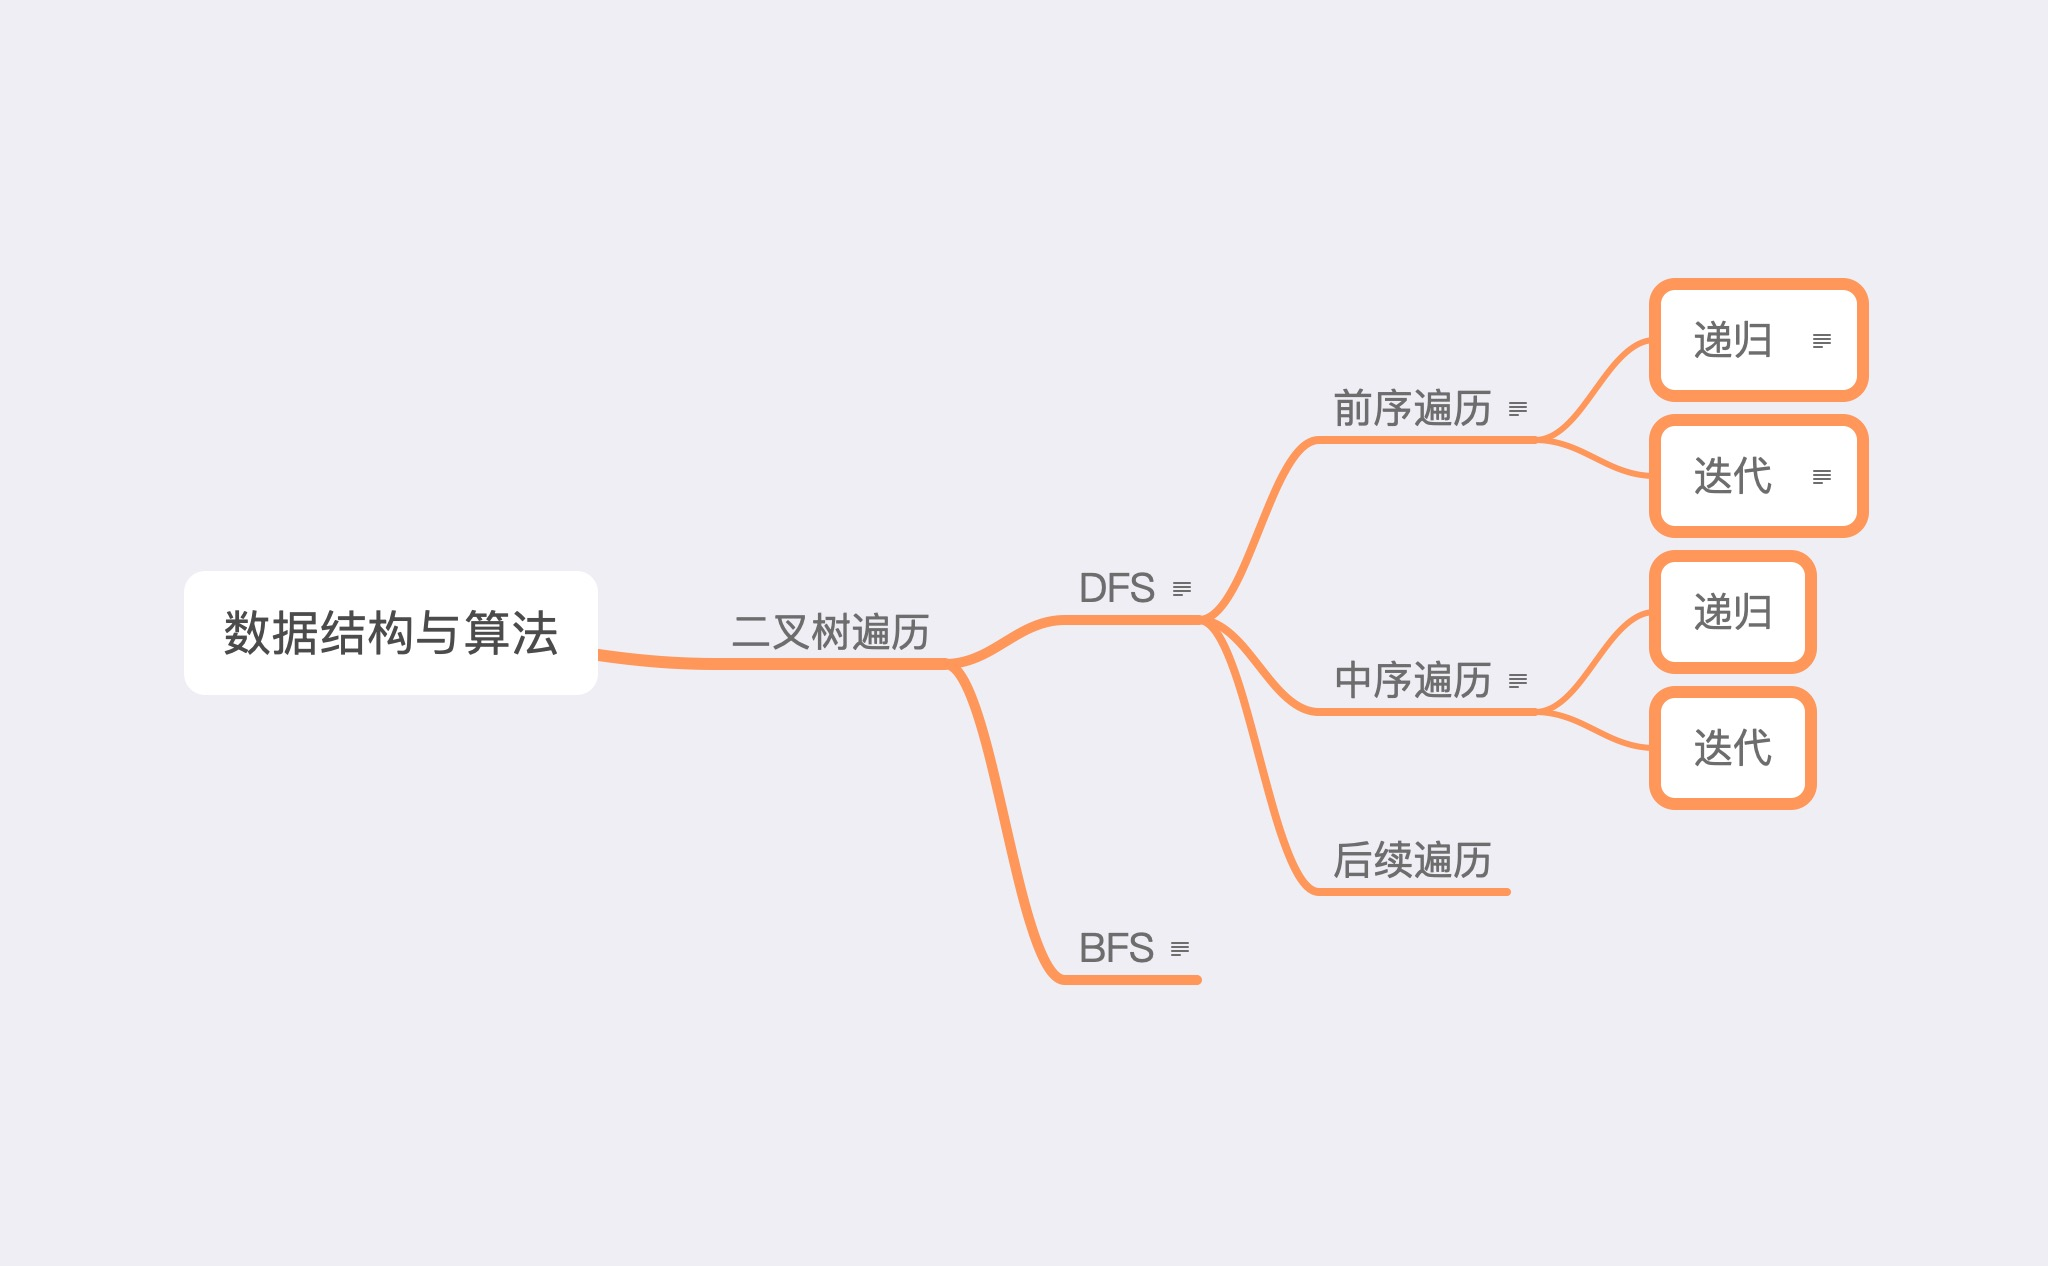
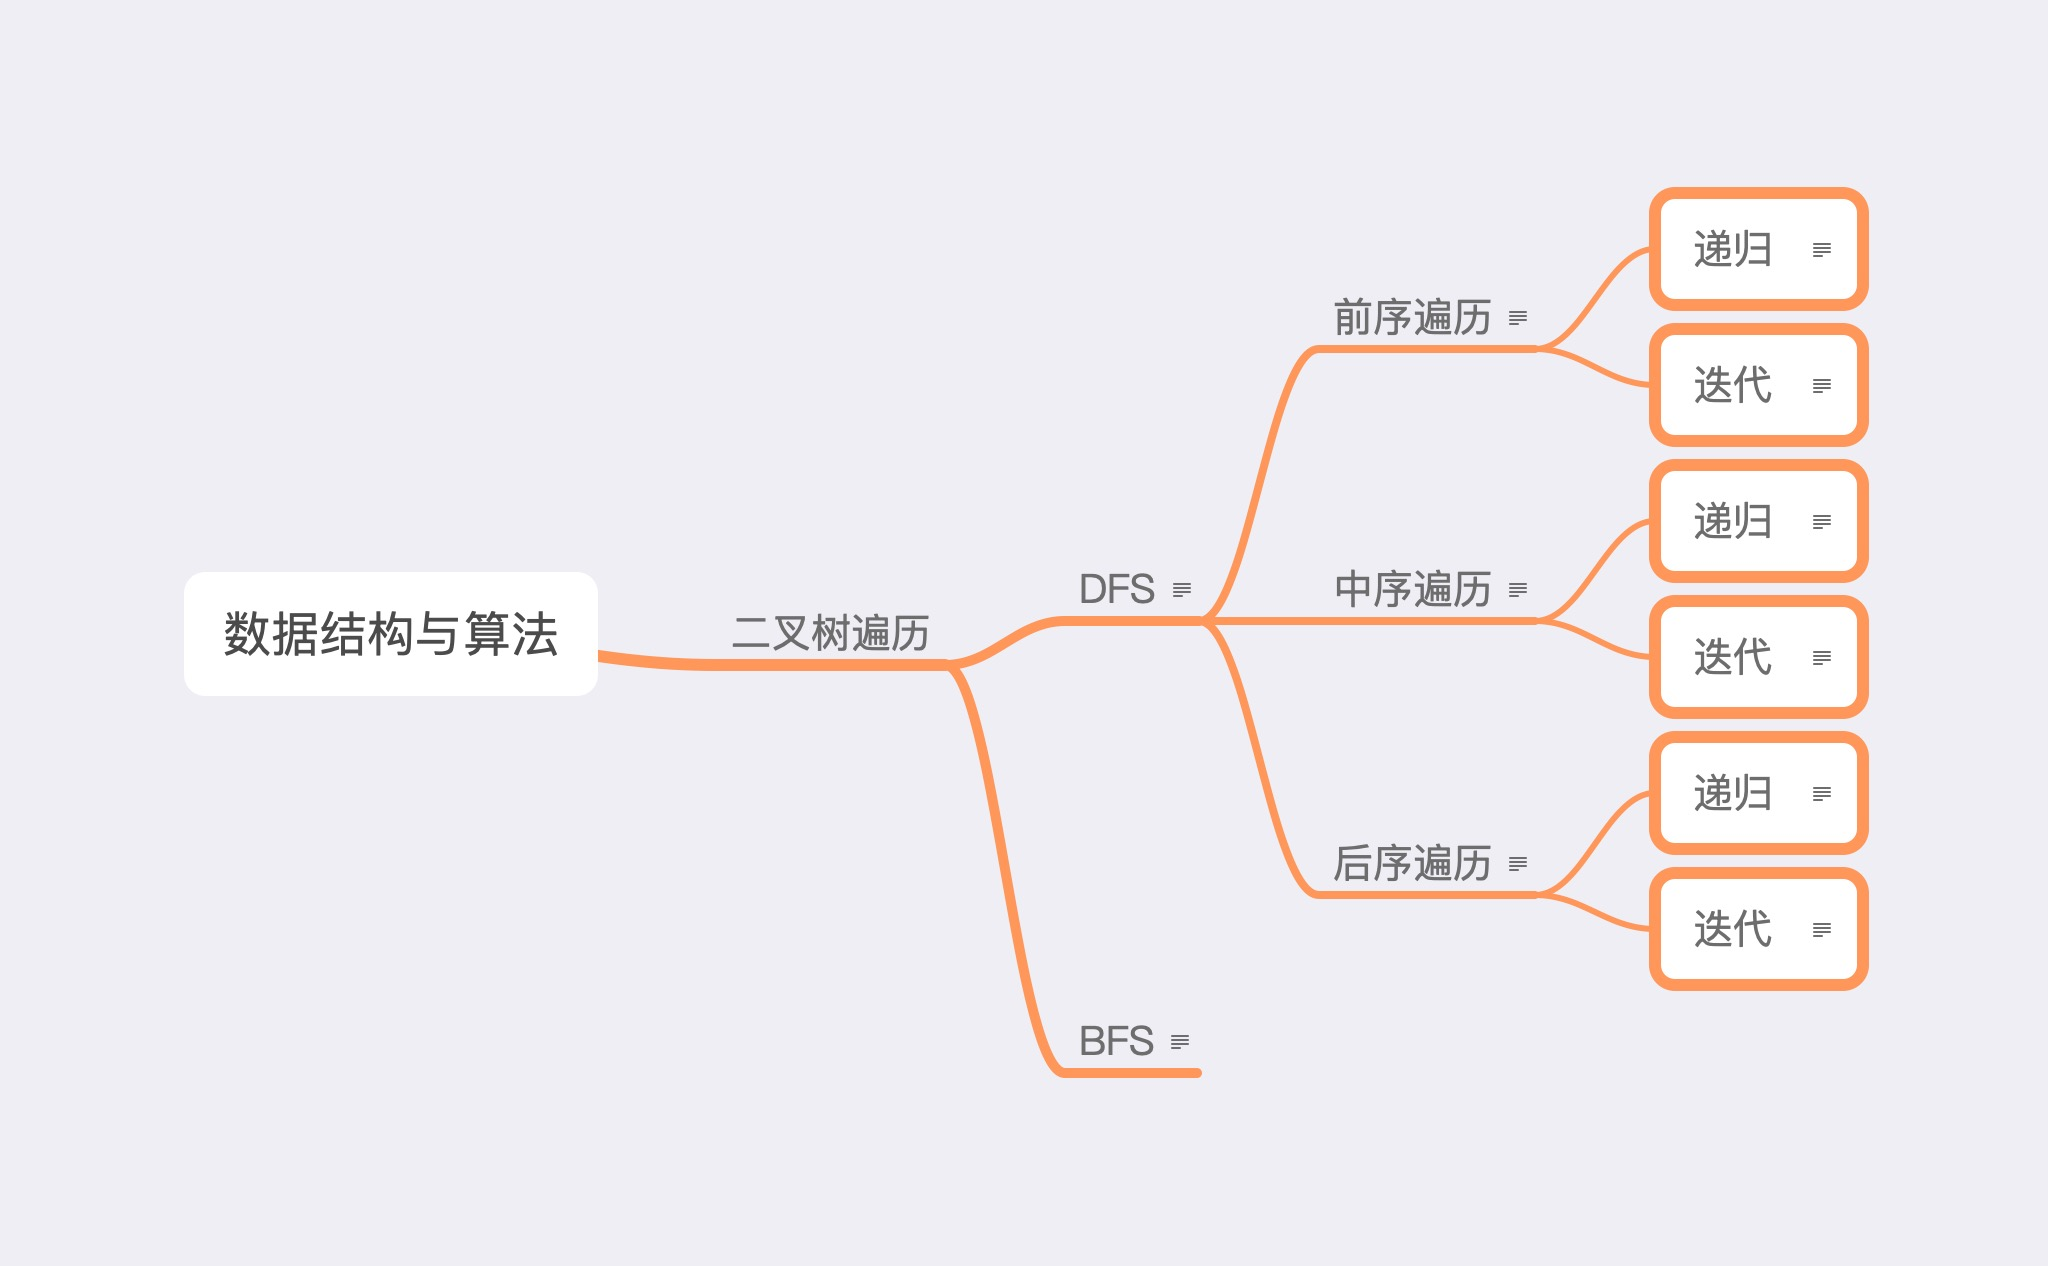
add dfs

diff --git a/94/94-ans.py b/94/94-ans.py
@@ -1,6 +1,8 @@
 #!/usr/bin/env python
 # -*- coding: utf-8 -*-
-# ylgongPw @ 2020-02-22 20:23:16
+# ylgongPw @ 2020-02-22 21:43:48
+from __future__ import unicode_literals
+from __future__ import absolute_import
 
 from typing import List
 
@@ -12,34 +14,29 @@ class TreeNode:
         self.right = None
 
 class Solution:
-    def preorderTraversal(self, root: TreeNode) -> List[int]:
+    def inorderTraversal(self, root: TreeNode) -> List[int]:
         """
-        迭代-前序遍历首先访问根节点，然后遍历左子树，最后遍历右子树。
+        迭代-中序遍历是先遍历左子树，然后访问根节点，然后遍历右子树。
         """
         vals = []
-        p = root
         stack = []
-
-        while p or stack:
+        p = root
+        while stack or p:
             while p:
-                val = p.val
-                vals.append(val)
                 stack.append(p)
                 p = p.left
-            p = stack.pop().right
+            tmp = stack.pop()
+            vals.append(tmp.val)
+            p = tmp.right
 
         return vals
 
-
-
 if __name__ == '__main__':
-    alist = [1,None,2,3]
+    alist = [1, None, 2, 3]
     t = TreeNode(1)
     t.right = TreeNode(2)
     t.right.left = TreeNode(3)
 
     S = Solution()
-    ret = S.preorderTraversal(t)
+    ret = S.inorderTraversal(t)
     print (ret)
-
-

diff --git a/145/145-ans.py b/145/145-ans.py
@@ -1,0 +1,49 @@
+#!/usr/bin/env python
+# -*- coding: utf-8 -*-
+# ylgongPw @ 2020-02-23 10:42:31
+from __future__ import unicode_literals
+from __future__ import absolute_import
+
+from typing import List
+
+# Definition for a binary tree node.
+class TreeNode:
+    def __init__(self, x):
+        self.val = x
+        self.left = None
+        self.right = None
+
+class Solution:
+    def postorderTraversal(self, root: TreeNode) -> List[int]:
+        """
+        迭代-后序遍历是先遍历左子树，然后遍历右子树，最后访问树的根节点。
+        先序遍历是 根左右，后续遍历是左右根。
+        模仿先序遍历生 根右左 结果逆序排列,得到左右根
+        """
+        p = root
+        stack = []
+        vals = []
+
+        while p or stack:
+            while p:
+                vals.append(p.val)
+                stack.append(p)
+                p = p.right
+            p = stack.pop().left
+
+
+        return list(reversed(vals))
+
+
+
+if __name__ == '__main__':
+    alist = [1,None,2,3]
+    t = TreeNode(1)
+    t.right = TreeNode(2)
+    t.right.left = TreeNode(3)
+
+    S = Solution()
+    ret = S.postorderTraversal(t)
+    print (ret)
+
+

diff --git a/145/145-my.py b/145/145-my.py
@@ -1,0 +1,48 @@
+#!/usr/bin/env python
+# -*- coding: utf-8 -*-
+# ylgongPw @ 2020-02-23 10:42:31
+from __future__ import unicode_literals
+from __future__ import absolute_import
+
+from typing import List
+
+# Definition for a binary tree node.
+class TreeNode:
+    def __init__(self, x):
+        self.val = x
+        self.left = None
+        self.right = None
+
+class Solution:
+    def postorderTraversal(self, root: TreeNode) -> List[int]:
+        """
+        递归-后序遍历是先遍历左子树，然后遍历右子树，最后访问树的根节点。
+        """
+        vals = []
+
+        def helper(root):
+            if not root:
+                return
+            helper(root.left)
+            helper(root.right)
+            val = root.val
+            vals.append(val)
+
+
+        helper(root)
+
+        return vals
+
+
+
+if __name__ == '__main__':
+    alist = [1,None,2,3]
+    t = TreeNode(1)
+    t.right = TreeNode(2)
+    t.right.left = TreeNode(3)
+
+    S = Solution()
+    ret = S.postorderTraversal(t)
+    print (ret)
+
+

diff --git a/94/94-my.py b/94/94-my.py
@@ -1,0 +1,45 @@
+#!/usr/bin/env python
+# -*- coding: utf-8 -*-
+# ylgongPw @ 2020-02-22 21:43:48
+from __future__ import unicode_literals
+from __future__ import absolute_import
+
+from typing import List
+
+# Definition for a binary tree node.
+class TreeNode:
+    def __init__(self, x):
+        self.val = x
+        self.left = None
+        self.right = None
+
+class Solution:
+    def inorderTraversal(self, root: TreeNode) -> List[int]:
+        """
+        递归-中序遍历是先遍历左子树，然后访问根节点，然后遍历右子树。
+        """
+        vals = []
+
+        def helper(root):
+            if not root:
+                return
+            helper(root.left)
+            val = root.val
+            vals.append(val)
+            helper(root.right)
+
+        helper(root)
+
+        return vals
+
+if __name__ == '__main__':
+    alist = [1, None, 2, 3]
+    t = TreeNode(1)
+    t.right = TreeNode(2)
+    t.right.left = TreeNode(3)
+
+    S = Solution()
+    ret = S.inorderTraversal(t)
+    print (ret)
+
+

diff --git a/145/145.md b/145/145.md
@@ -1,0 +1,30 @@
+# 题目描述 
+
+```
+进阶: 递归算法很简单，你可以通过迭代算法完成吗？
+
+
+来源：力扣（LeetCode）
+链接：https://leetcode-cn.com/problems/binary-tree-preorder-traversal
+著作权归领扣网络所有。商业转载请联系官方授权，非商业转载请注明出处。
+
+```
+
+# 解题思路
+* 递归-后序遍历是先遍历左子树，然后遍历右子树，最后访问树的根节点。
+
+## 解题代码
+
+[二叉树的后序遍历](145-my.py)
+
+# 解题思路
+* 迭代-后序遍历是先遍历左子树，然后遍历右子树，最后访问树的根节点。
+
+
+## 解题代码
+
+[二叉树的后序遍历](145-ans.py)
+
+ 
+
+ 

diff --git a/summary.md b/summary.md
@@ -23,6 +23,7 @@
 | 104-二叉树的最大深度 | 简单 | [二叉树的最大深度](104/104.md) |  |
 | 141-环形链表 | 简单 | [环形链表](141/141.md) |  |
 | 144-二叉树的前序遍历 | 中等 | [二叉树的前序遍历](144/144.md) | Tree |
+| 145-二叉树的后序遍历 | 中等 | [二叉树的后序遍历](145/145.md) | Tree |
 | 160-相交链表 | 简单 | [相交链表](160/160.md) |  |
 | 202-快乐数 | 简单 | [快乐数](202/202.md) | high |
 | 204-计算质数 | 简单 | [计算质数](204/204.md)-TODO | |

diff --git a/94/94.md b/94/94.md
@@ -1,4 +1,5 @@
 # 题目描述 
+
 ```
 给定一个二叉树，返回它的中序 遍历。
 
@@ -26,5 +27,15 @@
 ## 解题代码
 
 [二叉树的中序遍历](94-my.py)
+
+# 解题思路
+* 迭代-中序遍历是先遍历左子树，然后访问根节点，然后遍历右子树。
+
+
+## 解题代码
+
+[二叉树的中序遍历](94-ans.py)
+
+ 
 
  
